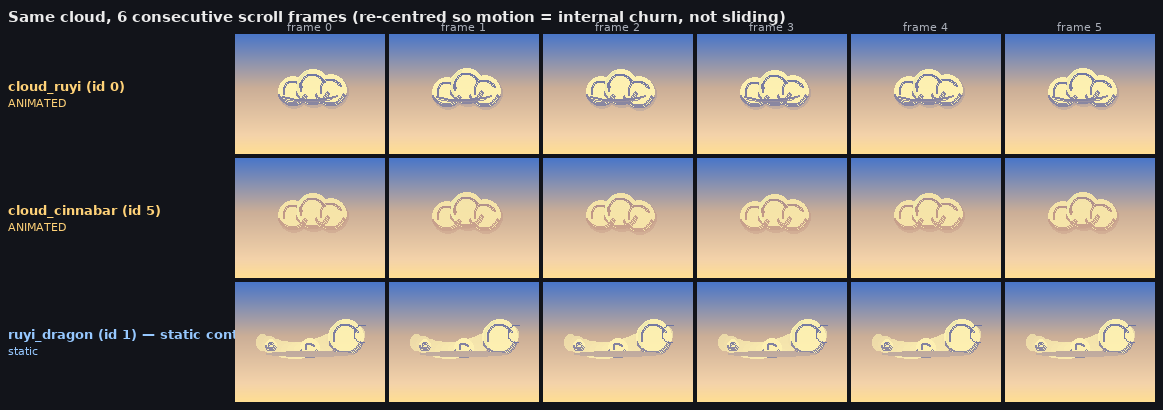
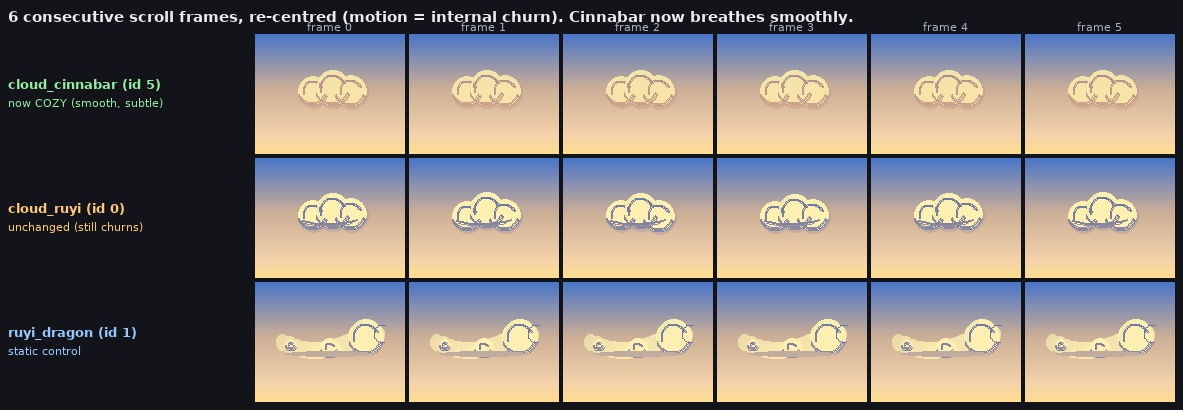
Make cloud_cinnabar motion subtle/cozy (kill the flicker)
cloud_cinnabar's lobe jitter was a hash of int(x)/int(y); since the cloud
scrolls and bobs every frame, the silhouette re-rolled each frame, reading as an
unpleasant flicker (~23% of the body churned per frame).

Replace the per-frame hash with a smooth low-amplitude sine of scroll position
(_cozy_lobe_sway): a long-period, ~1.6 px breathing that drifts continuously
instead of re-rolling. Internal churn drops to ~2% (sub-pixel rounding of the
smooth sway). Touches cinnabar only (_draw_base_ruyi's sole caller).

Diagnostic sheet regenerated to reflect the fix.

https://claude.ai/code/session_01AKSWmLi8hNK3VNasXuLMag

diff --git a/game/cloud_variants.py b/game/cloud_variants.py
@@ -82,13 +82,13 @@ def _alpha_surf(w, h) -> pygame.Surface:
 
 # ── ruyi-lobe / ink helpers ──────────────────────────────────────────────────
 
-def _seeded_jit(x: float, y: float, idx: int, amp: int) -> int:
-    # Deterministic per-spawn LCG step so silhouette jitter doesn't
-    # reshuffle frame-to-frame. Matches the seeding pattern used by the
-    # round-23 baseline so jitter "feels" the same across variants.
-    seed = (int(x) * 0x9E3779B1) ^ (int(y) * 0x7F4A7C15)
-    v = ((seed + idx * 2654435761) & 0xFFFF) / 0xFFFF
-    return int((v - 0.5) * 2 * amp)
+def _cozy_lobe_sway(x: float, idx: int, amp: float) -> int:
+    # Gentle continuous lobe drift keyed to the cloud's scroll position rather
+    # than a per-frame hash of it: the silhouette breathes smoothly instead of
+    # flickering. Long spatial period + small amplitude keep it cozy at every
+    # parallax depth. (A hashed jitter re-rolled every frame as x/y changed,
+    # which read as an unpleasant flicker.)
+    return int(math.sin(x * 0.06 + idx * 2.1) * amp)
 
 def _is_night(palette: dict) -> bool:
     # Single luminance test used to gate night-only branches like the
@@ -275,7 +275,7 @@ def _draw_base_ruyi(
     base_lobes = tuple(
         (
             int(w * xf),
-            cy + int(h * yo) + _seeded_jit(x, y, i, max(2, int(h * 0.06))),
+            cy + int(h * yo) + _cozy_lobe_sway(x, i, h * 0.035),
             int(h * rf),
         )
         for i, (xf, yo, rf) in enumerate(zip(lobe_xs, lobe_y_offsets, lobe_r_fracs))
